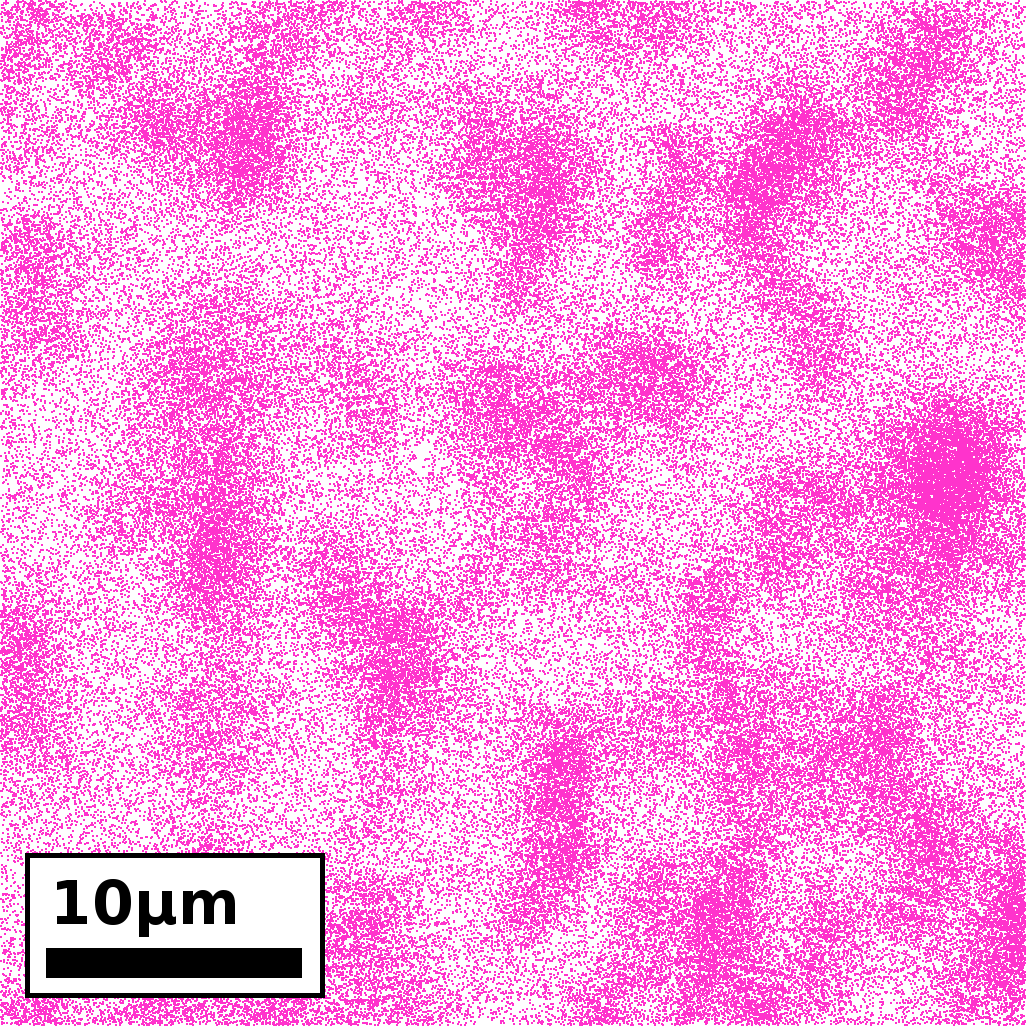
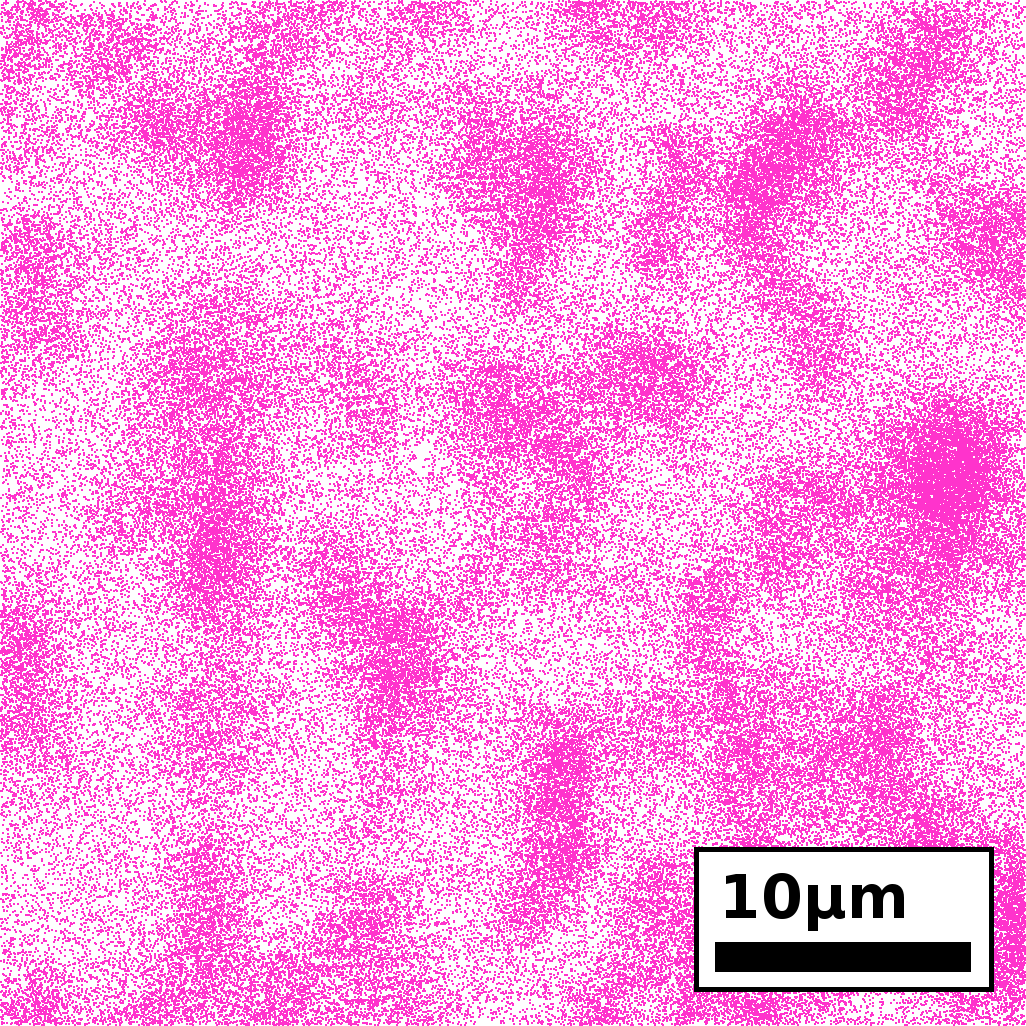
attempted to fix error where images weren't loading on the online site by capitalizing the .PNG for the portfolio images in index.html. Also updated cluster graphic

Changed region(s): [[0.0, 0.8109, 0.3431, 0.9981], [0.655, 0.8109, 0.9669, 0.9669]]

diff --git a/index.html b/index.html
@@ -342,7 +342,7 @@
                   <div class="item-wrap">
 
                      <a href="#modal-01" title="">
-                        <img alt="" src="images/portfolio/ris.png">
+                        <img alt="" src="images/portfolio/ris.PNG">
                         <div class="overlay">
                            <div class="portfolio-item-meta">
           					      <h5>Ni-Cr Damage Morphology</h5>
@@ -359,7 +359,7 @@
                   <div class="item-wrap">
 
                      <a href="#modal-03" title="">
-                        <img alt="" src="images/portfolio/loops.png">
+                        <img alt="" src="images/portfolio/loops.PNG">
                         <div class="overlay">
                            <div class="portfolio-item-meta">
           					      <h5>Loops in Fe-Cr-Al</h5>
@@ -376,7 +376,7 @@
                   <div class="item-wrap">
 
                      <a href="#modal-02" title="">
-                        <img alt="" src="images/portfolio/clusters.png">
+                        <img alt="" src="images/portfolio/clusters.PNG">
                         <div class="overlay">
                            <div class="portfolio-item-meta">
           					      <h5>Precipitation in Fe-Cr-Al</h5>
